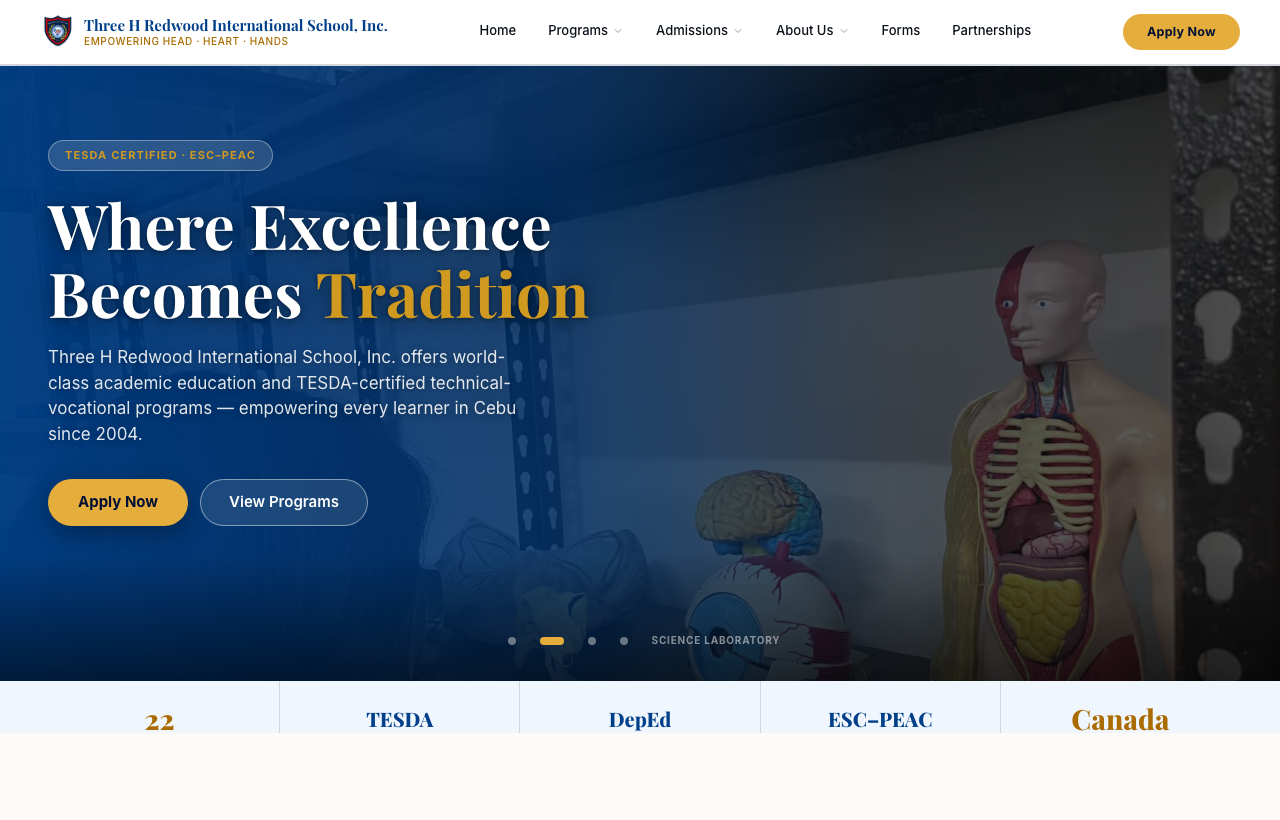
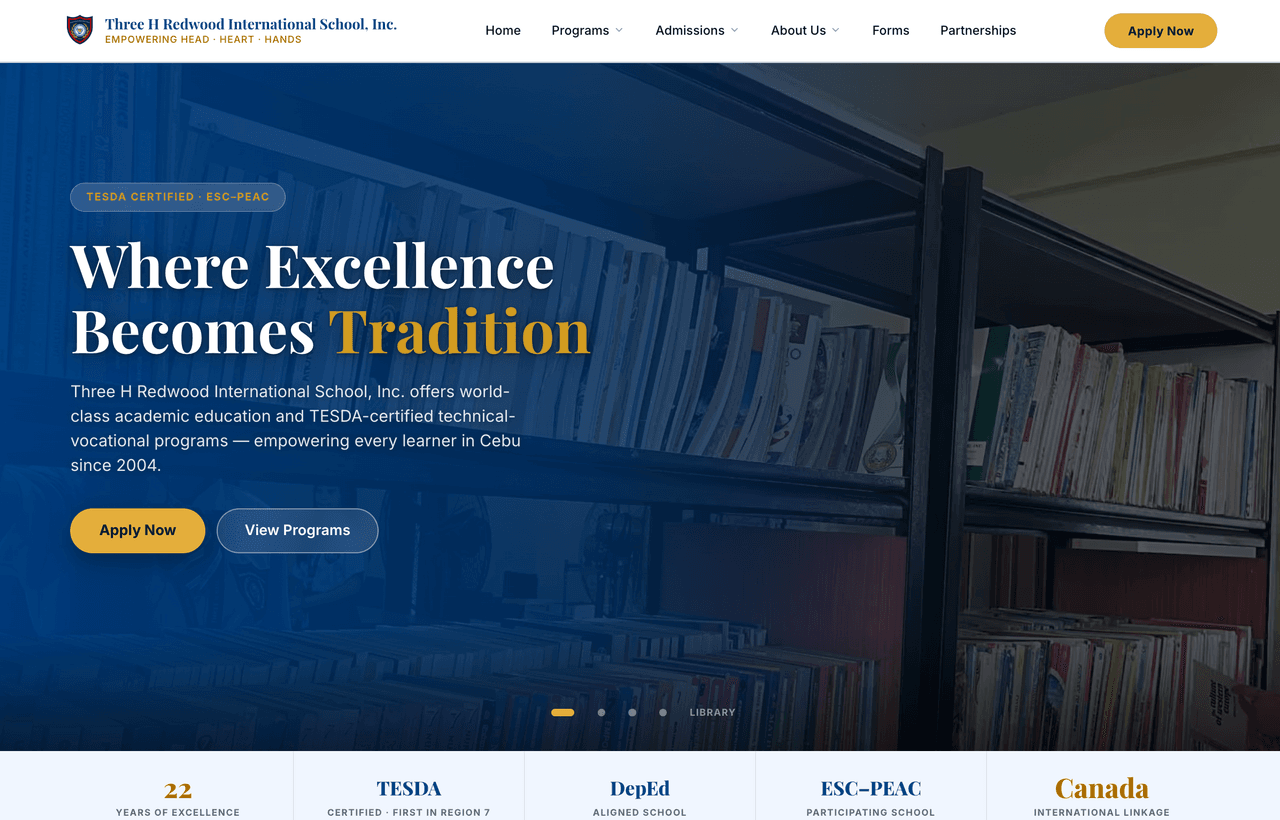
feat: content refresh + high-impact project-card pattern + polish (#29)
Content (data.tsx):
- StudyBoost rewritten to real scope from git history: Stripe subscriptions,
  document-purchase marketplace, creator payouts via Stripe Connect, BullMQ
  webhook queue + ledger, self-serve refunds; link -> preview.studyboost.com
- SportRules AI: add live link (sports-rulebook-rag-ai.vercel.app)
- Headline/experience freshened to lead with payments (Ayahay excluded - NDA)

Project cards (Projects.tsx):
- Unified high-impact Problem/Outcome/Details pattern across modal, featured,
  and small cards: Outcome is the visual hero (accent panel in modal, accent
  left-border on featured), Problem brightened, Details supporting
- Hover: remove image double-zoom; whole card scales subtly instead

ShortProfile.tsx:
- Declutter Core stack card (spacing, larger tags, display-shortened Python)
- Lighten the too-dark second half of the definition sentence

Images: new Three H Redwood, StudyBoost, SportRules screenshots

Verified: tsc, production build, full e2e 29/29, structured data intact.

diff --git a/app/components/Projects.tsx b/app/components/Projects.tsx
@@ -268,19 +268,21 @@ function ProjectModal({ project, onClose }: { project: Project; onClose: () => v
               </div>
 
               {project.problem ? (
-                <div className="space-y-1">
-                  <p className="text-[11px] font-mono uppercase tracking-[0.2em] text-foreground-subtle">
+                <div className="space-y-1.5">
+                  <p className="flex items-center gap-2 text-[11px] font-mono uppercase tracking-[0.2em] text-foreground-subtle">
+                    <span className="h-1 w-4 rounded-full bg-foreground-subtle/50" aria-hidden="true" />
                     Problem
                   </p>
-                  <p className="text-foreground-muted text-sm md:text-base leading-relaxed">
+                  <p className="text-foreground/70 text-sm md:text-base leading-relaxed">
                     {project.problem}
                   </p>
                 </div>
               ) : null}
 
               {project.outcome ? (
-                <div className="space-y-1">
-                  <p className="text-[11px] font-mono uppercase tracking-[0.2em] text-accent/80">
+                <div className="space-y-1.5 rounded-xl border border-accent/25 bg-accent/10 p-4">
+                  <p className="flex items-center gap-2 text-[11px] font-mono uppercase tracking-[0.2em] text-accent">
+                    <span className="h-1 w-4 rounded-full bg-accent" aria-hidden="true" />
                     Outcome
                   </p>
                   <p className="text-white text-sm md:text-base leading-relaxed font-medium">
@@ -289,8 +291,9 @@ function ProjectModal({ project, onClose }: { project: Project; onClose: () => v
                 </div>
               ) : null}
 
-              <div className="space-y-1">
-                <p className="text-[11px] font-mono uppercase tracking-[0.2em] text-foreground-subtle">
+              <div className="space-y-1.5">
+                <p className="flex items-center gap-2 text-[11px] font-mono uppercase tracking-[0.2em] text-foreground-subtle">
+                  <span className="h-1 w-4 rounded-full bg-foreground-subtle/50" aria-hidden="true" />
                   Details
                 </p>
                 <p className="text-foreground-muted text-sm md:text-base leading-relaxed">
@@ -449,7 +452,7 @@ function ProjectMedia({
         alt={project.title}
         fill
         sizes={sizes}
-        className="object-contain transition-transform duration-500 ease-fluid motion-safe:group-hover:scale-[1.03]"
+        className="object-contain"
         priority={priority}
       />
     );
@@ -474,7 +477,7 @@ function FeaturedProjectCard({
       type="button"
       onClick={onOpen}
       aria-label={`Open ${project.title} details`}
-      className="group relative col-span-1 md:col-span-2 text-left bg-surface-2 border border-surface-border rounded-card overflow-hidden hover:border-accent/40 transition-colors ease-fluid focus-visible:outline-none focus-visible:ring-2 focus-visible:ring-accent focus-visible:ring-offset-2 focus-visible:ring-offset-surface cursor-pointer"
+      className="group relative col-span-1 md:col-span-2 text-left bg-surface-2 border border-surface-border rounded-card overflow-hidden hover:border-accent/40 motion-safe:hover:scale-[1.01] transition-[transform,border-color] ease-fluid focus-visible:outline-none focus-visible:ring-2 focus-visible:ring-accent focus-visible:ring-offset-2 focus-visible:ring-offset-surface cursor-pointer"
     >
       <div className="grid grid-cols-1 lg:grid-cols-2">
         <div className="relative w-full min-h-[260px] lg:min-h-[420px] bg-surface overflow-hidden order-1 lg:order-2">
@@ -501,17 +504,23 @@ function FeaturedProjectCard({
           </h3>
 
           {project.problem ? (
-            <p className="text-foreground-muted text-sm md:text-base leading-relaxed">
-              <span className="text-foreground-subtle">Problem: </span>
+            <p className="text-foreground/70 text-sm md:text-base leading-relaxed">
+              <span className="font-mono text-[11px] uppercase tracking-wider text-foreground-subtle">
+                Problem&nbsp;·&nbsp;
+              </span>
               {project.problem}
             </p>
           ) : null}
 
           {project.outcome ? (
-            <p className="text-white text-sm md:text-base leading-relaxed font-medium">
-              <span className="text-accent">Outcome: </span>
-              {project.outcome}
-            </p>
+            <div className="border-l-2 border-accent/60 pl-3">
+              <p className="text-white text-sm md:text-base leading-relaxed font-medium">
+                <span className="font-mono text-[11px] uppercase tracking-wider text-accent">
+                  Outcome&nbsp;·&nbsp;
+                </span>
+                {project.outcome}
+              </p>
+            </div>
           ) : null}
 
           {project.tech?.length ? (
@@ -554,7 +563,7 @@ function ProjectCard({
       type="button"
       onClick={onOpen}
       aria-label={`Open ${project.title} details`}
-      className="group relative text-left bg-surface border border-surface-border rounded-card p-6 hover:border-accent/40 transition-colors ease-fluid focus-visible:outline-none focus-visible:ring-2 focus-visible:ring-accent focus-visible:ring-offset-2 focus-visible:ring-offset-surface cursor-pointer"
+      className="group relative text-left bg-surface border border-surface-border rounded-card p-6 hover:border-accent/40 motion-safe:hover:scale-[1.02] transition-[transform,border-color] ease-fluid focus-visible:outline-none focus-visible:ring-2 focus-visible:ring-accent focus-visible:ring-offset-2 focus-visible:ring-offset-surface cursor-pointer"
     >
       <div className="relative w-full mb-6 rounded-2xl overflow-hidden bg-surface-2 min-h-[220px]">
         <ProjectMedia project={project} />
@@ -568,7 +577,7 @@ function ProjectCard({
             <h3 className="text-lg md:text-xl font-display font-bold text-white">{project.title}</h3>
           </div>
           {project.outcome ? (
-            <p className="text-foreground-muted text-sm leading-snug max-w-sm">
+            <p className="text-foreground/75 text-sm leading-snug max-w-sm">
               {project.outcome}
             </p>
           ) : (

diff --git a/app/data.tsx b/app/data.tsx
@@ -4,9 +4,9 @@ export const DATA = {
   profile: {
     name: "Vincent B. Pacaña",
     role: "Full Stack Developer",
-    headline: "I build production SaaS with realtime and AI features",
+    headline: "I build production SaaS with payments, realtime, and AI features",
     subheadline:
-      "2 years shipping full-stack systems across Next.js/NestJS, RAG-powered AI apps, and realtime platforms for real clients.",
+      "2 years shipping full-stack systems across Next.js/NestJS - Stripe payments, RAG-powered AI apps, and realtime platforms for real clients.",
     bio: "Full-stack developer in Cebu City building production SaaS and AI-powered systems: microservices, realtime platforms, and performance-focused web. Comfortable across TypeScript and Java backends, React/Next.js and Flutter frontends, and cloud deployment.",
     summary: "Vincent B. Pacaña is a full-stack developer based in Cebu City, Philippines, who builds production SaaS and AI-powered systems - microservices, realtime platforms, and performance-focused web - across TypeScript and Java backends with React/Next.js and Flutter frontends.",
     npm: "https://www.npmjs.com/~beansint",
@@ -64,7 +64,7 @@ export const DATA = {
     {
       title: "Full-Stack Web Apps",
       description:
-        "End-to-end production apps on Next.js/NestJS - from database schema to deployment, like the Studyboost platform.",
+        "End-to-end production apps on Next.js/NestJS - from database schema to deployment, like the StudyBoost payments platform.",
     },
     {
       title: "AI / RAG Systems",
@@ -84,7 +84,7 @@ export const DATA = {
   ],
   clients: [
     { name: "Three H Redwood International School", url: "https://threehredwood.edu.ph" },
-    { name: "Studyboost", url: "https://studyboost.com/" },
+    { name: "StudyBoost", url: "https://preview.studyboost.com/" },
     { name: "CIT-U Wildcat Radio", url: "" },
   ],
   testimonials: [],
@@ -107,7 +107,7 @@ export const DATA = {
       description:
         "A RAG (retrieval-augmented generation) Q&A app over official sports rulebooks (NBA/NFL/MLB/FIFA) that returns cited, source-grounded answers. Built on a pluggable multi-provider LLM registry with per-query cost tracking.",
       tech: ["Next.js", "TypeScript", "Supabase", "pgvector", "LLMs"],
-      link: "",
+      link: "https://sports-rulebook-rag-ai.vercel.app/",
       github: "https://github.com/beansint/sports-rulebook-rag-ai",
       image: "/images/projects/sportrules.png",
       problem: "Sports rules are scattered across dense official rulebooks that are slow to search.",
@@ -136,14 +136,14 @@ export const DATA = {
       outcome: "Ranks page 1 on Google and scores a perfect 100 desktop Lighthouse across every page.",
     },
     {
-      title: "Studyboost",
+      title: "StudyBoost",
       description:
-        "A full-stack e-commerce platform built with a small team (in development): contributed to the backend migration from Spring Boot to NestJS, Stripe payment integration, and an affiliate program.",
-      tech: ["Next.js", "NestJS", "PostgreSQL", "Stripe"],
-      link: "https://studyboost.com/",
+        "An AI study platform for a US (Florida-based) client where I own the payments and monetization layer end-to-end on a NestJS + Next.js stack: Stripe subscriptions with full lifecycle controls, a document-purchase marketplace with tiered pricing and paywalls, creator payouts and revenue-sharing via Stripe Connect, and resilient webhook processing (async BullMQ queue plus an event ledger) with self-serve refunds.",
+      tech: ["Next.js", "NestJS", "PostgreSQL", "Stripe Connect", "BullMQ"],
+      link: "https://preview.studyboost.com/",
       image: "/images/projects/studyboost.png",
-      problem: "The platform's Spring Boot backend needed to move to a faster-iterating NestJS stack with payments.",
-      outcome: "Contributed the backend migration to NestJS plus Stripe payments and an affiliate program.",
+      problem: "A growing US study platform needed a production-grade monetization system - subscriptions, a paid document marketplace, and creator payouts.",
+      outcome: "Own the monetization layer end-to-end: Stripe subscriptions, a tiered document-purchase marketplace, creator payouts via Stripe Connect, queue-backed webhook processing, and self-serve refunds.",
     },
     {
       title: "BlockNotes",
@@ -177,7 +177,7 @@ export const DATA = {
     {
       role: "Backend & APIs",
       description:
-        "Designs and builds contract-first APIs and services in NestJS, Spring Boot, and Python (FastAPI/Django) - including the Studyboost backend migration to NestJS with Stripe payments.",
+        "Designs and builds contract-first APIs and services in NestJS, Spring Boot, and Python (FastAPI/Django) - including StudyBoost's payments platform: Stripe subscriptions, a document-purchase marketplace, and creator payouts via Stripe Connect.",
       icon: Terminal,
     },
     {

diff --git a/app/components/ShortProfile.tsx b/app/components/ShortProfile.tsx
@@ -227,7 +227,7 @@ export default function ShortProfile() {
                 Vincent B. Pacaña is a full-stack developer based in Cebu City,
                 building practical, production-ready systems that solve real
                 business problems -{" "}
-                <span className="text-foreground-muted">
+                <span className="text-foreground/80">
                   from user-facing applications to backend and cloud
                   infrastructure.
                 </span>
@@ -261,13 +261,13 @@ export default function ShortProfile() {
               <p className="relative z-10 text-xs font-mono uppercase tracking-[0.2em] text-accent/80 mb-3">
                 Core stack
               </p>
-              <div className="relative z-10 flex flex-wrap gap-1.5">
+              <div className="relative z-10 flex flex-wrap gap-2">
                 {DATA.skills.techStack.map((tech) => (
                   <span
                     key={tech}
-                    className="text-[11px] font-mono px-2 py-1 rounded bg-white/[0.06] text-foreground-muted border border-white/5 transition-colors hover:border-accent/40 hover:text-accent"
+                    className="text-xs font-mono px-2.5 py-1.5 rounded-md bg-white/[0.06] text-foreground-muted border border-white/5 transition-colors hover:border-accent/40 hover:text-accent"
                   >
-                    {tech}
+                    {tech.startsWith("Python") ? "Python" : tech}
                   </span>
                 ))}
               </div>
